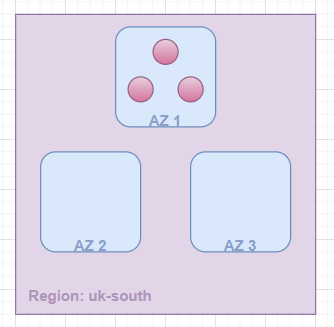
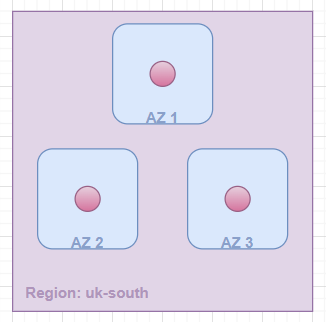
Updated diagram and corrected some screenshots and typos

diff --git a/Blob_Storage/README.md b/Blob_Storage/README.md
@@ -16,15 +16,15 @@
 
 ## Access Tiers (depending on how often you access the file):
 1. **Hot Tier** (Access: *Frequent*)
-* cheaper to access
+* *cheaper to access* (but more expensive to store)
 * really quick to load
 
 2. **Cold Tier** (Access: *Medium*)
-* costs more to access
+* *costs more to access* (but not as expensive to store)
 * takes longer to load
 
 3. **Archival Tier** (Access: *months/years in between accessing*)
-* cheapest tier
+* *cheapest tier* (costs the least to store, but costs more when you do access)
 * takes a really long time to load (hours)
 
 <br>
@@ -34,22 +34,22 @@
 
 **LRS - Locally Redundant Storage**
 
-![AltText](Images/LRS.png)
+![AltText](Images/LRs.png)
 
-- cheapest
-- storing in only one data center (Availability Zone) 
-- puts 3 copies in 1 data center
+- **cheapest**
+- storing in only *one data center* (Availability Zone) 
+- puts *3 copies in 1 data center*
 
-**ZRS - Zone redundant storage**
+**ZRS - Zone Redundant Storage**
 
-![AltText](Images/ZRS.png)
+![AltText](Images/ZRs.png)
 
-- more expensive
-- 3 copies of blob, one in each data center (Availability Zone) 
+- **more expensive**
+- *3 copies of blob*, one in *each data center* (Availability Zone) 
 
 <br>
 
-### Other important points:
+### Other Important Points:
 * You can access this through either Azure Powershell (similar to WCP - Windows Command Prompt) or Azure CLI (which is a little bit more like Linux). Both can run commands.
 * Every command starts with `az`.
 * In our script, we will create storage account, create a container, get a blob, download it and upload it to container we made, then give public access to the blob. Then in our app files, we will change 'views - index' file to add that blob (which is a .jpg) to the home page of our app (this will be linked straight to the blob location).
@@ -108,14 +108,14 @@ ps aux | grep node
 ```
 ![AltText](Images/4.png)
 
-6. You can now try to kill it using `sudo kill`, but it will stil show up with a different Process ID:
+6. The App was started through User Data, so that's why 'user' shows as `root`. You can now try to kill it using `sudo kill`, but it will still pop back up with a different Process ID:
 
 ```shell
 sudo kill -9 17169
 ```
 ![AltText](Images/9.png)
 
-10. You need to kill `pm2`:
+10. What you need to do is to to kill `pm2`, which will allow you to start the App from 'adminuser' without problems:
 
 ![AltText](Images/12.png)
 
@@ -129,6 +129,7 @@ sudo kill -9 17169
 ```shell
 curl -sL https://aka.ms/InstallAzureCLIDeb | sudo bash
 ```
+![AltText](Images/14.png)
 
 2. To Login: 
 
@@ -138,7 +139,7 @@ az login
 
 ![AltText](Images/10.png)
 
-3. On the Link: 
+3. On the Link, you will have to enter the code from the console: 
 
 ![AltText](Images/5.png)
 
